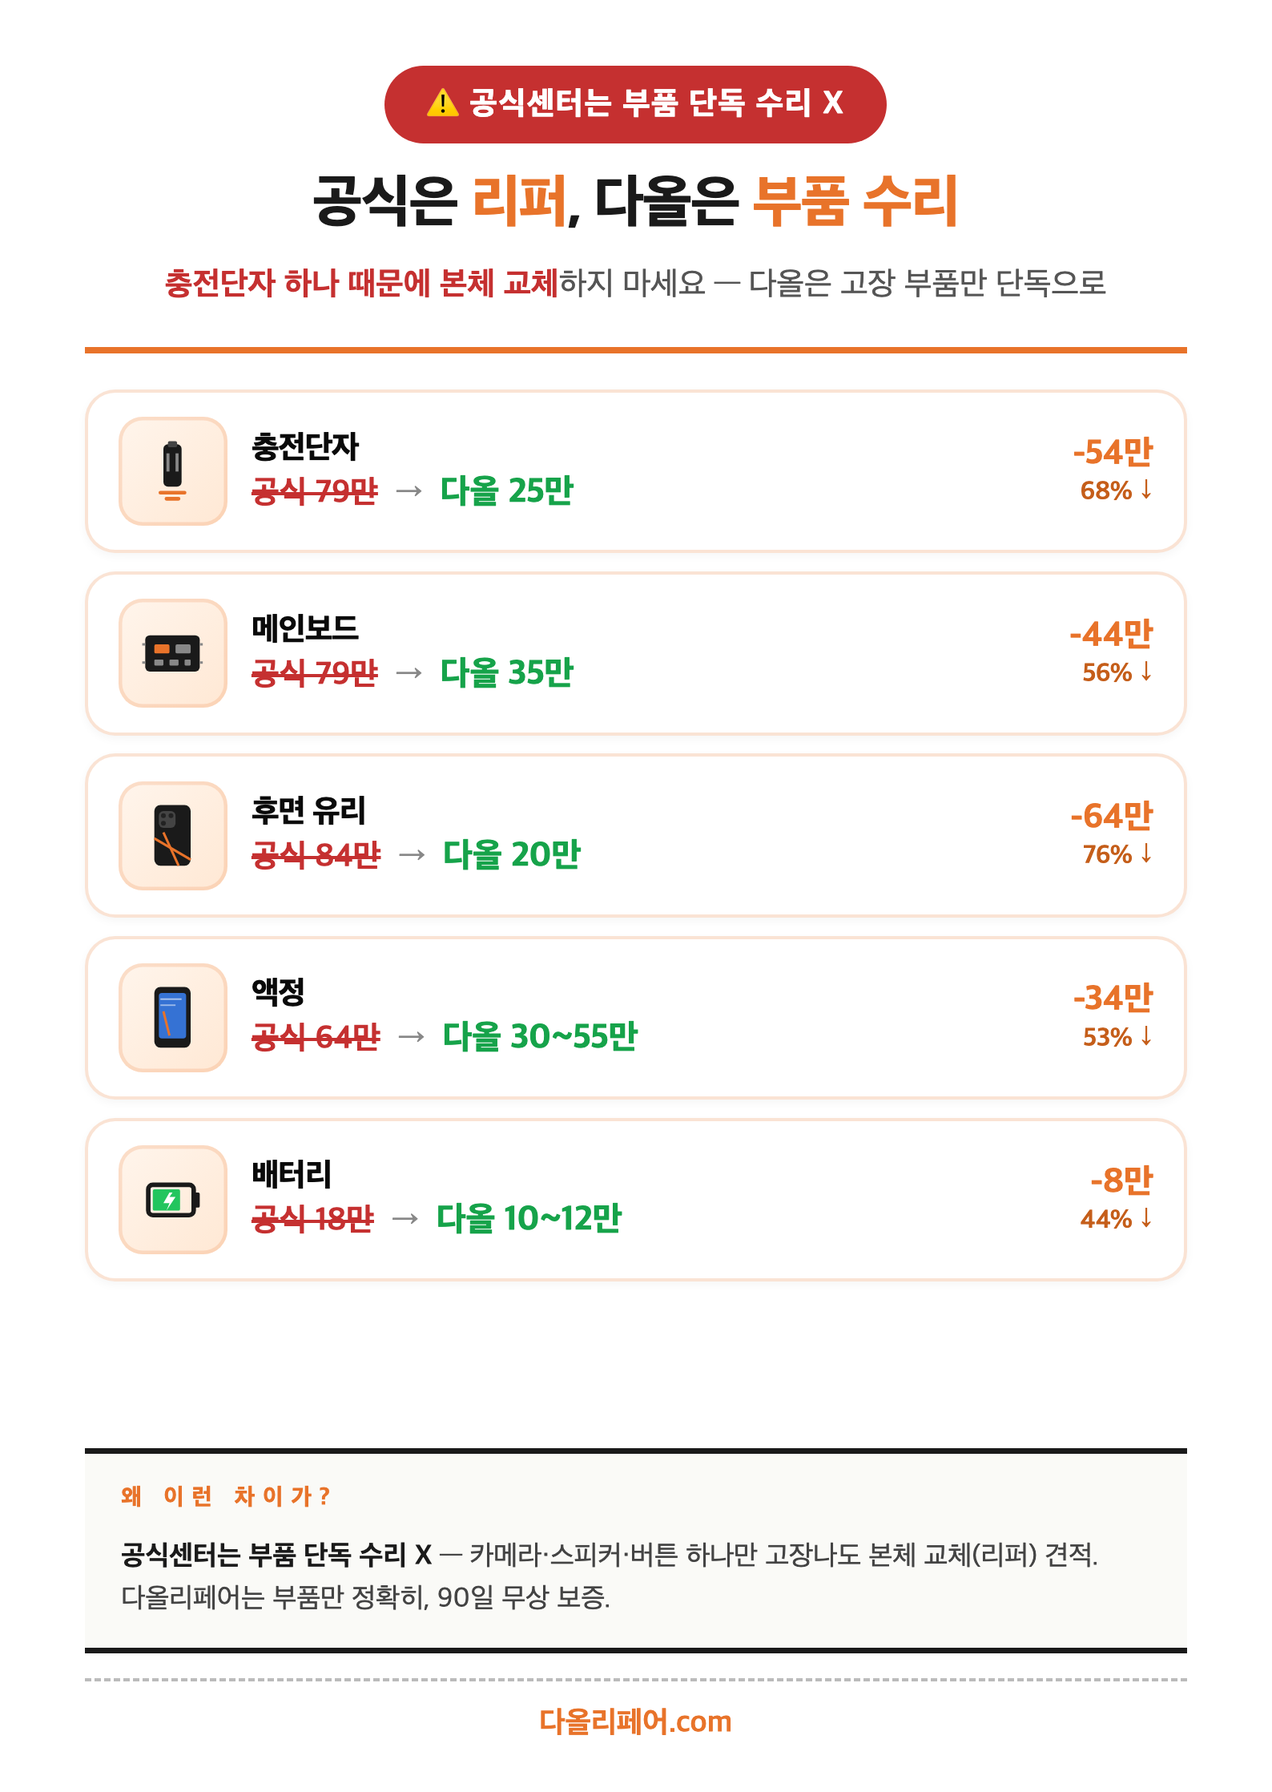
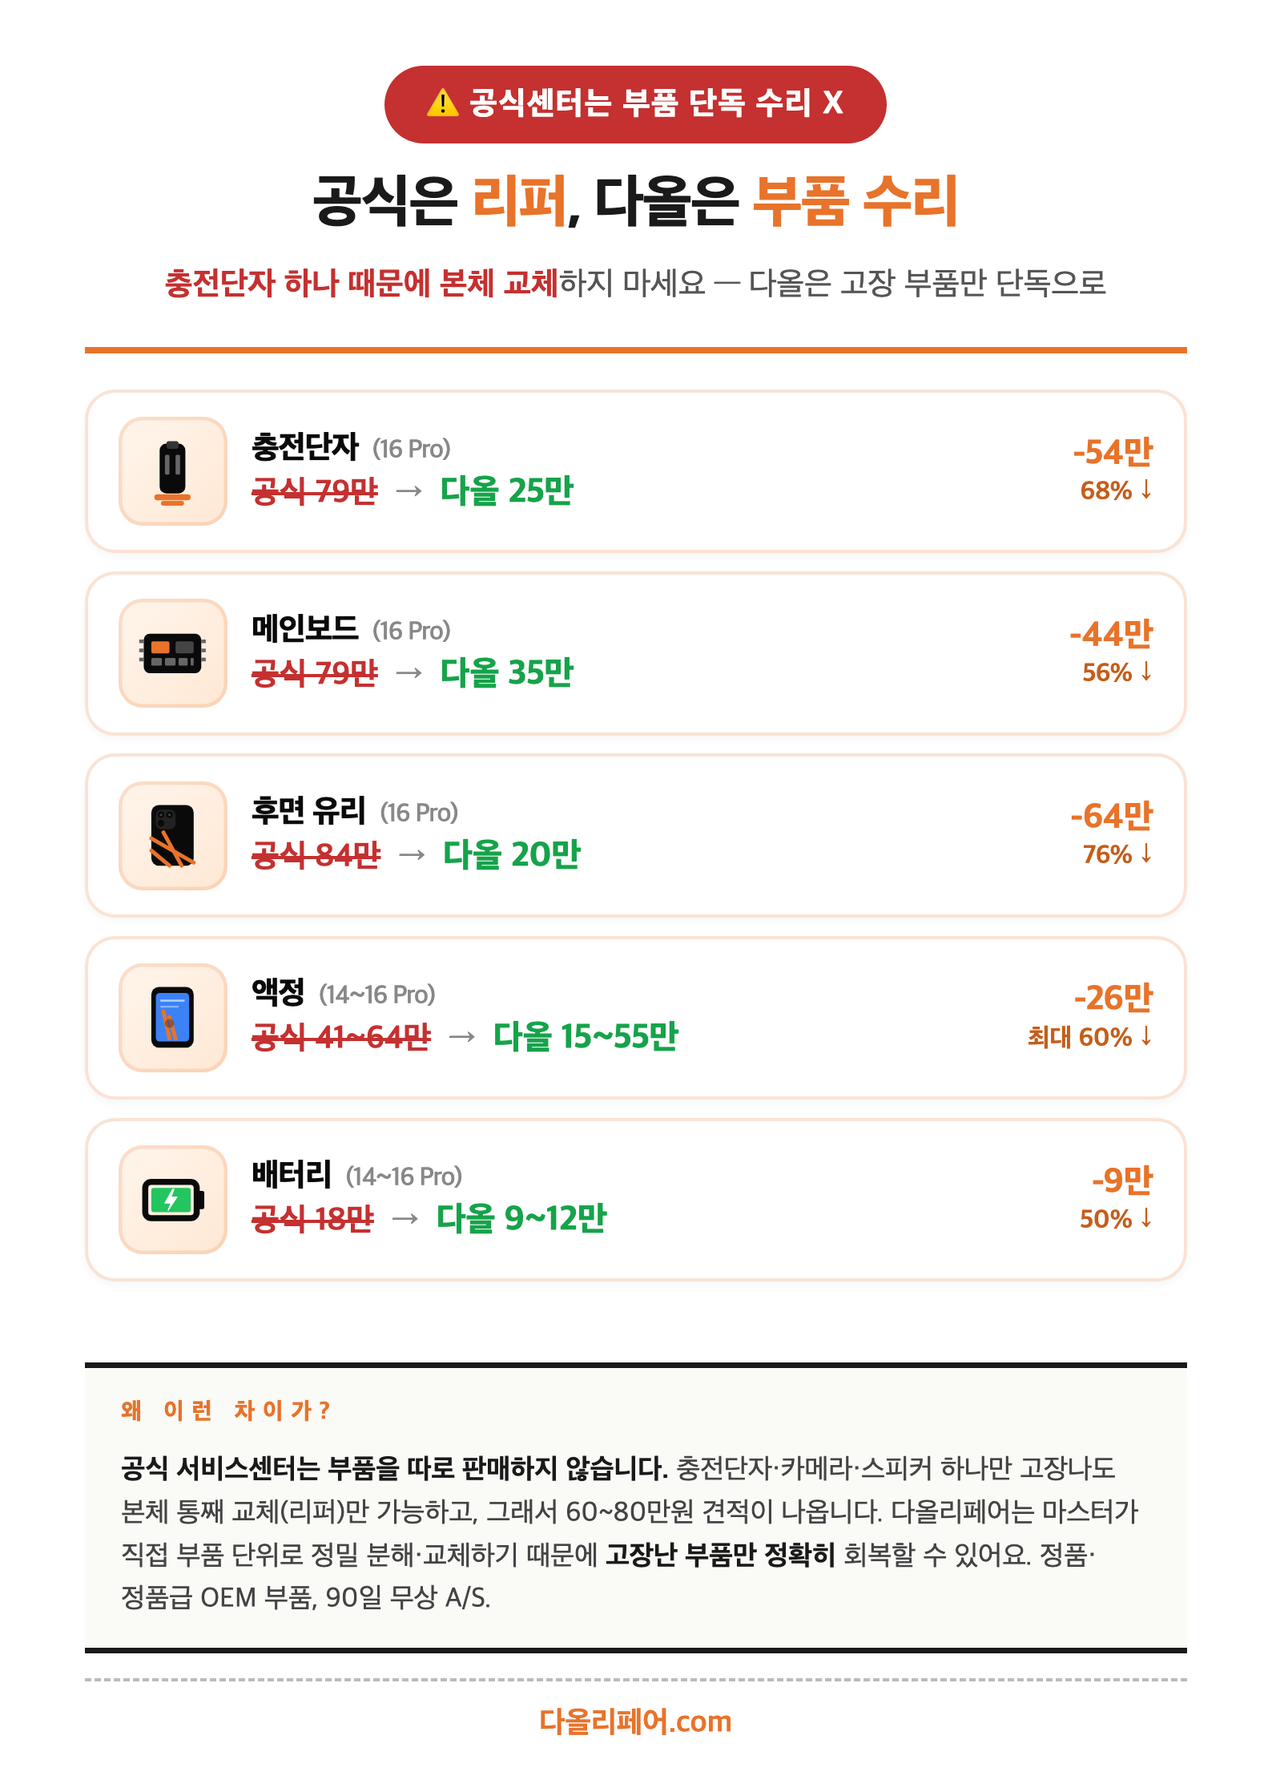
공식 vs 다올 A6 — 액정 15~55만 / 부품별 기종 표기 / SVG 묵직하게 / 왜 차이가 디테일 보강

diff --git a/articles/notice-price-comparison-print.html b/articles/notice-price-comparison-print.html
@@ -127,6 +127,12 @@
       letter-spacing: -0.3px;
       line-height: 1.2;
     }
+    .a6-row-name small {
+      font-size: 6pt;
+      font-weight: 600;
+      color: #888;
+      margin-left: 2px;
+    }
     .a6-row-prices {
       display: flex;
       align-items: baseline;
@@ -231,15 +237,16 @@
       <div class="a6-row">
         <div class="a6-row-icon">
           <svg viewBox="0 0 24 24" fill="none">
-            <rect x="9" y="3" width="6" height="14" rx="1.5" fill="#1a1a1a"/>
-            <rect x="10.5" y="2" width="3" height="2" rx="0.5" fill="#444"/>
-            <rect x="10" y="6" width="1" height="6" fill="#888"/>
-            <rect x="13" y="6" width="1" height="6" fill="#888"/>
-            <path d="M8 19h8M10 21h4" stroke="#E8732A" stroke-width="1.2" stroke-linecap="round"/>
+            <rect x="8" y="3" width="8" height="16" rx="2" fill="#0A0A0A" stroke="#0A0A0A" stroke-width="0.5"/>
+            <rect x="10" y="2" width="4" height="2.5" rx="0.8" fill="#333"/>
+            <rect x="9.5" y="6.5" width="1.5" height="6.5" rx="0.4" fill="#666"/>
+            <rect x="13" y="6.5" width="1.5" height="6.5" rx="0.4" fill="#666"/>
+            <path d="M7 20.5h10" stroke="#E8732A" stroke-width="2" stroke-linecap="round"/>
+            <path d="M9 22.5h6" stroke="#E8732A" stroke-width="1.6" stroke-linecap="round"/>
           </svg>
         </div>
         <div class="a6-row-body">
-          <div class="a6-row-name">충전단자</div>
+          <div class="a6-row-name">충전단자 <small>(16 Pro)</small></div>
           <div class="a6-row-prices">
             <span class="a6-row-official">공식 79만</span>
             <span class="a6-row-arrow">→</span>
@@ -256,20 +263,23 @@
       <div class="a6-row">
         <div class="a6-row-icon">
           <svg viewBox="0 0 24 24" fill="none">
-            <rect x="3" y="6" width="18" height="12" rx="1.5" fill="#1a1a1a"/>
-            <rect x="6" y="9" width="5" height="3" rx="0.5" fill="#E8732A"/>
-            <rect x="13" y="9" width="5" height="3" rx="0.5" fill="#888"/>
-            <rect x="6" y="14" width="3" height="2" rx="0.3" fill="#888"/>
-            <rect x="11" y="14" width="3" height="2" rx="0.3" fill="#888"/>
-            <rect x="16" y="14" width="2" height="2" rx="0.3" fill="#888"/>
-            <line x1="3" y1="9" x2="2" y2="9" stroke="#888" stroke-width="0.8"/>
-            <line x1="3" y1="15" x2="2" y2="15" stroke="#888" stroke-width="0.8"/>
-            <line x1="22" y1="9" x2="21" y2="9" stroke="#888" stroke-width="0.8"/>
-            <line x1="22" y1="15" x2="21" y2="15" stroke="#888" stroke-width="0.8"/>
+            <rect x="2.5" y="5.5" width="19" height="13" rx="2" fill="#0A0A0A"/>
+            <rect x="5" y="8" width="6" height="4" rx="0.6" fill="#E8732A"/>
+            <rect x="13" y="8" width="6" height="4" rx="0.6" fill="#444"/>
+            <rect x="5" y="13.5" width="3.5" height="2.5" rx="0.4" fill="#666"/>
+            <rect x="9.5" y="13.5" width="3.5" height="2.5" rx="0.4" fill="#666"/>
+            <rect x="14" y="13.5" width="3" height="2.5" rx="0.4" fill="#666"/>
+            <rect x="18" y="13.5" width="1" height="2.5" rx="0.3" fill="#666"/>
+            <line x1="2.5" y1="8" x2="1" y2="8" stroke="#666" stroke-width="1.2"/>
+            <line x1="2.5" y1="11" x2="1" y2="11" stroke="#666" stroke-width="1.2"/>
+            <line x1="2.5" y1="14" x2="1" y2="14" stroke="#666" stroke-width="1.2"/>
+            <line x1="23" y1="8" x2="21.5" y2="8" stroke="#666" stroke-width="1.2"/>
+            <line x1="23" y1="11" x2="21.5" y2="11" stroke="#666" stroke-width="1.2"/>
+            <line x1="23" y1="14" x2="21.5" y2="14" stroke="#666" stroke-width="1.2"/>
           </svg>
         </div>
         <div class="a6-row-body">
-          <div class="a6-row-name">메인보드</div>
+          <div class="a6-row-name">메인보드 <small>(16 Pro)</small></div>
           <div class="a6-row-prices">
             <span class="a6-row-official">공식 79만</span>
             <span class="a6-row-arrow">→</span>
@@ -286,17 +296,18 @@
       <div class="a6-row">
         <div class="a6-row-icon">
           <svg viewBox="0 0 24 24" fill="none">
-            <rect x="6" y="2" width="12" height="20" rx="2" fill="#1a1a1a"/>
-            <rect x="7.5" y="4" width="5.5" height="5.5" rx="1.5" fill="#444"/>
-            <circle cx="9" cy="5.5" r="0.8" fill="#222"/>
-            <circle cx="11.5" cy="5.5" r="0.8" fill="#222"/>
-            <circle cx="9" cy="8" r="0.8" fill="#222"/>
-            <line x1="6" y1="13" x2="18" y2="20" stroke="#E8732A" stroke-width="0.8"/>
-            <line x1="9" y1="11" x2="14" y2="22" stroke="#E8732A" stroke-width="0.8"/>
+            <rect x="5" y="2" width="14" height="20" rx="2.5" fill="#0A0A0A"/>
+            <rect x="6.5" y="3.5" width="6.5" height="6.5" rx="1.8" fill="#222"/>
+            <circle cx="8.2" cy="5.2" r="1.1" fill="#0A0A0A"/>
+            <circle cx="11" cy="5.2" r="1.1" fill="#0A0A0A"/>
+            <circle cx="8.2" cy="8" r="1.1" fill="#0A0A0A"/>
+            <circle cx="8.2" cy="5.2" r="0.4" fill="#444"/>
+            <circle cx="11" cy="5.2" r="0.4" fill="#444"/>
+            <path d="M5 13L19 21M9 11L15 22M5 17L11 22" stroke="#E8732A" stroke-width="1.3" stroke-linecap="round"/>
           </svg>
         </div>
         <div class="a6-row-body">
-          <div class="a6-row-name">후면 유리</div>
+          <div class="a6-row-name">후면 유리 <small>(16 Pro)</small></div>
           <div class="a6-row-prices">
             <span class="a6-row-official">공식 84만</span>
             <span class="a6-row-arrow">→</span>
@@ -313,24 +324,25 @@
       <div class="a6-row">
         <div class="a6-row-icon">
           <svg viewBox="0 0 24 24" fill="none">
-            <rect x="6" y="2" width="12" height="20" rx="2" fill="#1a1a1a"/>
-            <rect x="7.5" y="4" width="9" height="15" rx="1" fill="#3b82f6" opacity="0.85"/>
-            <line x1="8" y1="6" x2="15" y2="6" stroke="#fff" stroke-width="0.5" opacity="0.6"/>
-            <line x1="8" y1="8" x2="13" y2="8" stroke="#fff" stroke-width="0.5" opacity="0.5"/>
-            <line x1="9" y1="10" x2="11" y2="18" stroke="#E8732A" stroke-width="0.8"/>
+            <rect x="5" y="2" width="14" height="20" rx="2.5" fill="#0A0A0A"/>
+            <rect x="6.5" y="4" width="11" height="16" rx="1.2" fill="#3b82f6"/>
+            <line x1="8" y1="6.5" x2="16" y2="6.5" stroke="#fff" stroke-width="0.7" opacity="0.6"/>
+            <line x1="8" y1="8.5" x2="14" y2="8.5" stroke="#fff" stroke-width="0.6" opacity="0.4"/>
+            <path d="M9 10L11 19M11 12L13 19" stroke="#E8732A" stroke-width="1.3" stroke-linecap="round"/>
+            <circle cx="11" cy="14" r="1.5" fill="#0A0A0A" opacity="0.3"/>
           </svg>
         </div>
         <div class="a6-row-body">
-          <div class="a6-row-name">액정</div>
+          <div class="a6-row-name">액정 <small>(14~16 Pro)</small></div>
           <div class="a6-row-prices">
-            <span class="a6-row-official">공식 64만</span>
+            <span class="a6-row-official">공식 41~64만</span>
             <span class="a6-row-arrow">→</span>
-            <span class="a6-row-daol">다올 30~55만</span>
+            <span class="a6-row-daol">다올 15~55만</span>
           </div>
         </div>
         <div class="a6-row-save">
-          <span class="a6-row-save-amt">-34만</span>
-          <span class="a6-row-save-pct">53% ↓</span>
+          <span class="a6-row-save-amt">-26만</span>
+          <span class="a6-row-save-pct">최대 60% ↓</span>
         </div>
       </div>
 
@@ -338,30 +350,30 @@
       <div class="a6-row">
         <div class="a6-row-icon">
           <svg viewBox="0 0 24 24" fill="none">
-            <rect x="4" y="7" width="15" height="10" rx="1.5" fill="none" stroke="#1a1a1a" stroke-width="1.5"/>
-            <rect x="19" y="9.5" width="2" height="5" rx="0.5" fill="#1a1a1a"/>
-            <rect x="5.5" y="8.5" width="9" height="7" rx="0.5" fill="#22c55e"/>
-            <path d="M11 9.5L9 13H11L10 15.5L13 11H11L12 9.5z" fill="#fff"/>
+            <rect x="3" y="6" width="17" height="12" rx="2" fill="none" stroke="#0A0A0A" stroke-width="2"/>
+            <rect x="20" y="9" width="2.5" height="6" rx="0.6" fill="#0A0A0A"/>
+            <rect x="5" y="8" width="13" height="8" rx="0.8" fill="#22c55e"/>
+            <path d="M12 8.5L9.5 13H11.5L10.5 15.5L13.5 11H11.5L12.5 8.5z" fill="#fff" stroke="#fff" stroke-width="0.3"/>
           </svg>
         </div>
         <div class="a6-row-body">
-          <div class="a6-row-name">배터리</div>
+          <div class="a6-row-name">배터리 <small>(14~16 Pro)</small></div>
           <div class="a6-row-prices">
             <span class="a6-row-official">공식 18만</span>
             <span class="a6-row-arrow">→</span>
-            <span class="a6-row-daol">다올 10~12만</span>
+            <span class="a6-row-daol">다올 9~12만</span>
           </div>
         </div>
         <div class="a6-row-save">
-          <span class="a6-row-save-amt">-8만</span>
-          <span class="a6-row-save-pct">44% ↓</span>
+          <span class="a6-row-save-amt">-9만</span>
+          <span class="a6-row-save-pct">50% ↓</span>
         </div>
       </div>
     </div>
 
     <div class="a6-foot-note">
       <span class="a6-foot-eyebrow">왜 이런 차이가?</span>
-      <strong>공식센터는 부품 단독 수리 X</strong> — 카메라·스피커·버튼 하나만 고장나도 본체 교체(리퍼) 견적. 다올리페어는 부품만 정확히, 90일 무상 보증.
+      <strong>공식 서비스센터는 부품을 따로 판매하지 않습니다.</strong> 충전단자·카메라·스피커 하나만 고장나도 본체 통째 교체(리퍼)만 가능하고, 그래서 60~80만원 견적이 나옵니다. 다올리페어는 마스터가 직접 부품 단위로 정밀 분해·교체하기 때문에 <strong>고장난 부품만 정확히</strong> 회복할 수 있어요. 정품·정품급 OEM 부품, 90일 무상 A/S.
     </div>
 
     <div class="a6-footer">

diff --git a/dist/articles/notice-price-comparison-print.html b/dist/articles/notice-price-comparison-print.html
@@ -127,6 +127,12 @@
       letter-spacing: -0.3px;
       line-height: 1.2;
     }
+    .a6-row-name small {
+      font-size: 6pt;
+      font-weight: 600;
+      color: #888;
+      margin-left: 2px;
+    }
     .a6-row-prices {
       display: flex;
       align-items: baseline;
@@ -231,15 +237,16 @@
       <div class="a6-row">
         <div class="a6-row-icon">
           <svg viewBox="0 0 24 24" fill="none">
-            <rect x="9" y="3" width="6" height="14" rx="1.5" fill="#1a1a1a"/>
-            <rect x="10.5" y="2" width="3" height="2" rx="0.5" fill="#444"/>
-            <rect x="10" y="6" width="1" height="6" fill="#888"/>
-            <rect x="13" y="6" width="1" height="6" fill="#888"/>
-            <path d="M8 19h8M10 21h4" stroke="#E8732A" stroke-width="1.2" stroke-linecap="round"/>
+            <rect x="8" y="3" width="8" height="16" rx="2" fill="#0A0A0A" stroke="#0A0A0A" stroke-width="0.5"/>
+            <rect x="10" y="2" width="4" height="2.5" rx="0.8" fill="#333"/>
+            <rect x="9.5" y="6.5" width="1.5" height="6.5" rx="0.4" fill="#666"/>
+            <rect x="13" y="6.5" width="1.5" height="6.5" rx="0.4" fill="#666"/>
+            <path d="M7 20.5h10" stroke="#E8732A" stroke-width="2" stroke-linecap="round"/>
+            <path d="M9 22.5h6" stroke="#E8732A" stroke-width="1.6" stroke-linecap="round"/>
           </svg>
         </div>
         <div class="a6-row-body">
-          <div class="a6-row-name">충전단자</div>
+          <div class="a6-row-name">충전단자 <small>(16 Pro)</small></div>
           <div class="a6-row-prices">
             <span class="a6-row-official">공식 79만</span>
             <span class="a6-row-arrow">→</span>
@@ -256,20 +263,23 @@
       <div class="a6-row">
         <div class="a6-row-icon">
           <svg viewBox="0 0 24 24" fill="none">
-            <rect x="3" y="6" width="18" height="12" rx="1.5" fill="#1a1a1a"/>
-            <rect x="6" y="9" width="5" height="3" rx="0.5" fill="#E8732A"/>
-            <rect x="13" y="9" width="5" height="3" rx="0.5" fill="#888"/>
-            <rect x="6" y="14" width="3" height="2" rx="0.3" fill="#888"/>
-            <rect x="11" y="14" width="3" height="2" rx="0.3" fill="#888"/>
-            <rect x="16" y="14" width="2" height="2" rx="0.3" fill="#888"/>
-            <line x1="3" y1="9" x2="2" y2="9" stroke="#888" stroke-width="0.8"/>
-            <line x1="3" y1="15" x2="2" y2="15" stroke="#888" stroke-width="0.8"/>
-            <line x1="22" y1="9" x2="21" y2="9" stroke="#888" stroke-width="0.8"/>
-            <line x1="22" y1="15" x2="21" y2="15" stroke="#888" stroke-width="0.8"/>
+            <rect x="2.5" y="5.5" width="19" height="13" rx="2" fill="#0A0A0A"/>
+            <rect x="5" y="8" width="6" height="4" rx="0.6" fill="#E8732A"/>
+            <rect x="13" y="8" width="6" height="4" rx="0.6" fill="#444"/>
+            <rect x="5" y="13.5" width="3.5" height="2.5" rx="0.4" fill="#666"/>
+            <rect x="9.5" y="13.5" width="3.5" height="2.5" rx="0.4" fill="#666"/>
+            <rect x="14" y="13.5" width="3" height="2.5" rx="0.4" fill="#666"/>
+            <rect x="18" y="13.5" width="1" height="2.5" rx="0.3" fill="#666"/>
+            <line x1="2.5" y1="8" x2="1" y2="8" stroke="#666" stroke-width="1.2"/>
+            <line x1="2.5" y1="11" x2="1" y2="11" stroke="#666" stroke-width="1.2"/>
+            <line x1="2.5" y1="14" x2="1" y2="14" stroke="#666" stroke-width="1.2"/>
+            <line x1="23" y1="8" x2="21.5" y2="8" stroke="#666" stroke-width="1.2"/>
+            <line x1="23" y1="11" x2="21.5" y2="11" stroke="#666" stroke-width="1.2"/>
+            <line x1="23" y1="14" x2="21.5" y2="14" stroke="#666" stroke-width="1.2"/>
           </svg>
         </div>
         <div class="a6-row-body">
-          <div class="a6-row-name">메인보드</div>
+          <div class="a6-row-name">메인보드 <small>(16 Pro)</small></div>
           <div class="a6-row-prices">
             <span class="a6-row-official">공식 79만</span>
             <span class="a6-row-arrow">→</span>
@@ -286,17 +296,18 @@
       <div class="a6-row">
         <div class="a6-row-icon">
           <svg viewBox="0 0 24 24" fill="none">
-            <rect x="6" y="2" width="12" height="20" rx="2" fill="#1a1a1a"/>
-            <rect x="7.5" y="4" width="5.5" height="5.5" rx="1.5" fill="#444"/>
-            <circle cx="9" cy="5.5" r="0.8" fill="#222"/>
-            <circle cx="11.5" cy="5.5" r="0.8" fill="#222"/>
-            <circle cx="9" cy="8" r="0.8" fill="#222"/>
-            <line x1="6" y1="13" x2="18" y2="20" stroke="#E8732A" stroke-width="0.8"/>
-            <line x1="9" y1="11" x2="14" y2="22" stroke="#E8732A" stroke-width="0.8"/>
+            <rect x="5" y="2" width="14" height="20" rx="2.5" fill="#0A0A0A"/>
+            <rect x="6.5" y="3.5" width="6.5" height="6.5" rx="1.8" fill="#222"/>
+            <circle cx="8.2" cy="5.2" r="1.1" fill="#0A0A0A"/>
+            <circle cx="11" cy="5.2" r="1.1" fill="#0A0A0A"/>
+            <circle cx="8.2" cy="8" r="1.1" fill="#0A0A0A"/>
+            <circle cx="8.2" cy="5.2" r="0.4" fill="#444"/>
+            <circle cx="11" cy="5.2" r="0.4" fill="#444"/>
+            <path d="M5 13L19 21M9 11L15 22M5 17L11 22" stroke="#E8732A" stroke-width="1.3" stroke-linecap="round"/>
           </svg>
         </div>
         <div class="a6-row-body">
-          <div class="a6-row-name">후면 유리</div>
+          <div class="a6-row-name">후면 유리 <small>(16 Pro)</small></div>
           <div class="a6-row-prices">
             <span class="a6-row-official">공식 84만</span>
             <span class="a6-row-arrow">→</span>
@@ -313,24 +324,25 @@
       <div class="a6-row">
         <div class="a6-row-icon">
           <svg viewBox="0 0 24 24" fill="none">
-            <rect x="6" y="2" width="12" height="20" rx="2" fill="#1a1a1a"/>
-            <rect x="7.5" y="4" width="9" height="15" rx="1" fill="#3b82f6" opacity="0.85"/>
-            <line x1="8" y1="6" x2="15" y2="6" stroke="#fff" stroke-width="0.5" opacity="0.6"/>
-            <line x1="8" y1="8" x2="13" y2="8" stroke="#fff" stroke-width="0.5" opacity="0.5"/>
-            <line x1="9" y1="10" x2="11" y2="18" stroke="#E8732A" stroke-width="0.8"/>
+            <rect x="5" y="2" width="14" height="20" rx="2.5" fill="#0A0A0A"/>
+            <rect x="6.5" y="4" width="11" height="16" rx="1.2" fill="#3b82f6"/>
+            <line x1="8" y1="6.5" x2="16" y2="6.5" stroke="#fff" stroke-width="0.7" opacity="0.6"/>
+            <line x1="8" y1="8.5" x2="14" y2="8.5" stroke="#fff" stroke-width="0.6" opacity="0.4"/>
+            <path d="M9 10L11 19M11 12L13 19" stroke="#E8732A" stroke-width="1.3" stroke-linecap="round"/>
+            <circle cx="11" cy="14" r="1.5" fill="#0A0A0A" opacity="0.3"/>
           </svg>
         </div>
         <div class="a6-row-body">
-          <div class="a6-row-name">액정</div>
+          <div class="a6-row-name">액정 <small>(14~16 Pro)</small></div>
           <div class="a6-row-prices">
-            <span class="a6-row-official">공식 64만</span>
+            <span class="a6-row-official">공식 41~64만</span>
             <span class="a6-row-arrow">→</span>
-            <span class="a6-row-daol">다올 30~55만</span>
+            <span class="a6-row-daol">다올 15~55만</span>
           </div>
         </div>
         <div class="a6-row-save">
-          <span class="a6-row-save-amt">-34만</span>
-          <span class="a6-row-save-pct">53% ↓</span>
+          <span class="a6-row-save-amt">-26만</span>
+          <span class="a6-row-save-pct">최대 60% ↓</span>
         </div>
       </div>
 
@@ -338,30 +350,30 @@
       <div class="a6-row">
         <div class="a6-row-icon">
           <svg viewBox="0 0 24 24" fill="none">
-            <rect x="4" y="7" width="15" height="10" rx="1.5" fill="none" stroke="#1a1a1a" stroke-width="1.5"/>
-            <rect x="19" y="9.5" width="2" height="5" rx="0.5" fill="#1a1a1a"/>
-            <rect x="5.5" y="8.5" width="9" height="7" rx="0.5" fill="#22c55e"/>
-            <path d="M11 9.5L9 13H11L10 15.5L13 11H11L12 9.5z" fill="#fff"/>
+            <rect x="3" y="6" width="17" height="12" rx="2" fill="none" stroke="#0A0A0A" stroke-width="2"/>
+            <rect x="20" y="9" width="2.5" height="6" rx="0.6" fill="#0A0A0A"/>
+            <rect x="5" y="8" width="13" height="8" rx="0.8" fill="#22c55e"/>
+            <path d="M12 8.5L9.5 13H11.5L10.5 15.5L13.5 11H11.5L12.5 8.5z" fill="#fff" stroke="#fff" stroke-width="0.3"/>
           </svg>
         </div>
         <div class="a6-row-body">
-          <div class="a6-row-name">배터리</div>
+          <div class="a6-row-name">배터리 <small>(14~16 Pro)</small></div>
           <div class="a6-row-prices">
             <span class="a6-row-official">공식 18만</span>
             <span class="a6-row-arrow">→</span>
-            <span class="a6-row-daol">다올 10~12만</span>
+            <span class="a6-row-daol">다올 9~12만</span>
           </div>
         </div>
         <div class="a6-row-save">
-          <span class="a6-row-save-amt">-8만</span>
-          <span class="a6-row-save-pct">44% ↓</span>
+          <span class="a6-row-save-amt">-9만</span>
+          <span class="a6-row-save-pct">50% ↓</span>
         </div>
       </div>
     </div>
 
     <div class="a6-foot-note">
       <span class="a6-foot-eyebrow">왜 이런 차이가?</span>
-      <strong>공식센터는 부품 단독 수리 X</strong> — 카메라·스피커·버튼 하나만 고장나도 본체 교체(리퍼) 견적. 다올리페어는 부품만 정확히, 90일 무상 보증.
+      <strong>공식 서비스센터는 부품을 따로 판매하지 않습니다.</strong> 충전단자·카메라·스피커 하나만 고장나도 본체 통째 교체(리퍼)만 가능하고, 그래서 60~80만원 견적이 나옵니다. 다올리페어는 마스터가 직접 부품 단위로 정밀 분해·교체하기 때문에 <strong>고장난 부품만 정확히</strong> 회복할 수 있어요. 정품·정품급 OEM 부품, 90일 무상 A/S.
     </div>
 
     <div class="a6-footer">
